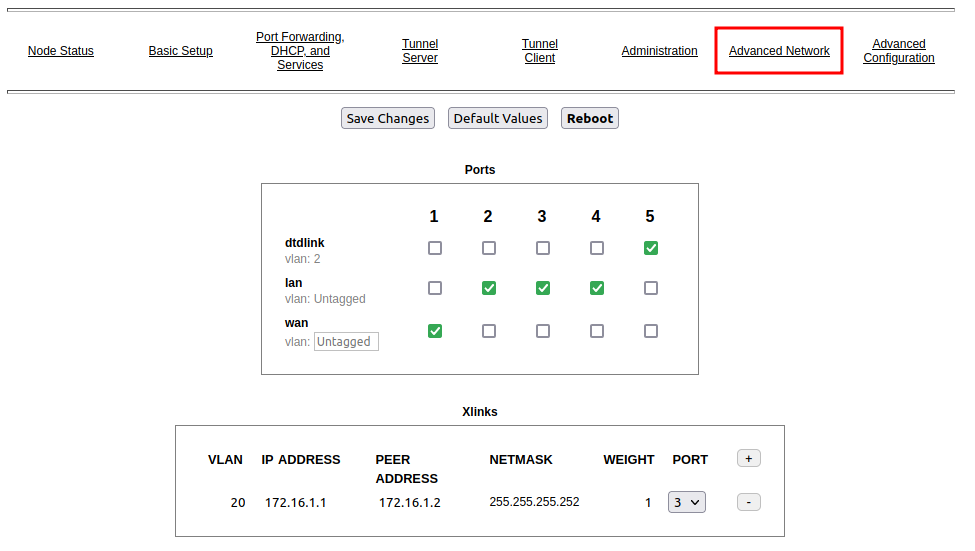
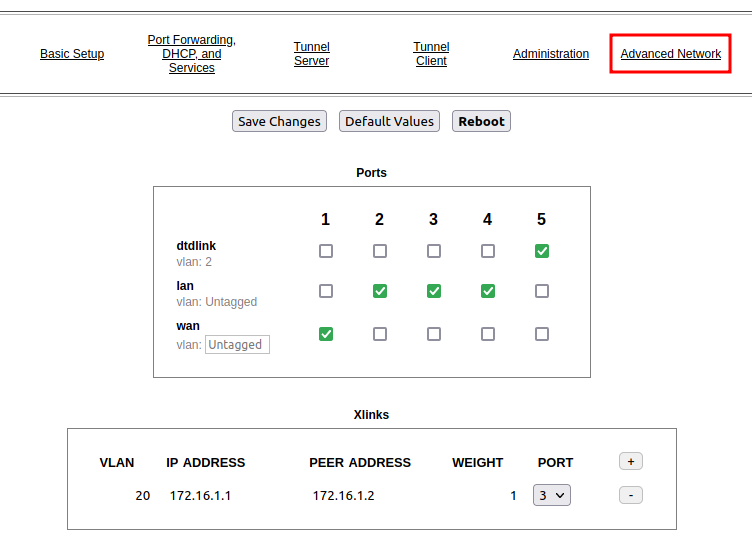
add xlinks how-to (#309)

diff --git a/arednHow-toGuides/xlinks.rst b/arednHow-toGuides/xlinks.rst
@@ -1,0 +1,30 @@
+=================
+Using Cross Links
+=================
+
+*Contributor: Tim Wilkerson KN6PLV*
+
+A cross-link allows your node to pass AREDN |trade| traffic across non-AREDN |trade| Point-to-Point (PtP) links.
+
+
+Configure the AREDN |trade| nodes at both ends
+----------------------------------------------
+
+You can use either a *Mikrotik hAP ac2* or *ac3* as the AREDN |trade| device on each end of the cross-link. Navigate to the **Administration > Advanced Network** page of the node on one side of the link. To add a cross-link click the *plus* icon, enter an unused VLAN number for the link, an IP address for the near-side radio, an IP address for the far-side radio, a weighting factor, and the available port to which the near-side radio is connected on your node. The *Weight* will be used by `OLSR <https://en.wikipedia.org/wiki/Optimized_Link_State_Routing_Protocol>`_ to determine the best route for AREDN |trade| traffic.
+
+.. image:: ../arednGettingStarted/_images/advnet.png
+  :alt: Advanced Networking
+  :align: center
+
+In this example we chose VLAN ``20`` because it is not in use anywhere else on our network. We assigned an *IP Address* of ``172.16.1.1`` for the PtP radio attached to this node, and we assigned ``172.16.1.2`` as the *Peer Address* for the PtP radio on the other side of the link. The *Weight* is set to ``1`` which is the same weight as would be used by a tunnel connection, but this can be increased if you want the cross-link to be chosen at a lower priority for routing traffic on the mesh. *Port* ``3`` was chosen because it is an open port on this device. After entering your values, click *Save Changes* to save the new cross-link information. Now you can cable your near-side PtP device to port 3 on your AREDN |trade| node.
+
+.. image:: _images/xlink.png
+  :alt: Cross-link diagram
+  :align: center
+
+Next, open the **Administration > Advanced Network** page on the node for the other side of the PtP link. Set the *IP Address* for the PtP radio attached to this node to ``172.16.1.2`` and the *Peer Address* for the PtP radio on the other side of the link to ``172.16.1.1``. The *Weight* is set to ``1`` which is the same weight as would be used by a tunnel connection, but this can be increased if you want the cross-link to be chosen at a lower priority for routing traffic on the mesh. In our example we are setting the *Port* to ``4`` because it is an open port on this device. After entering your values, click *Save Changes* to save the cross-link configuration for this side of the PtP link. Now you can cable your far-side PtP device to port 4 on your AREDN |trade| node.
+
+Configure the intermediate Point-to-Point Link
+----------------------------------------------
+
+There are many types of vendor-specific Point-to-Point products that can be used to establish an AREDN |trade| cross-link. Refer to your manufacturer's documentation for the best way to ensure that network packets can be successfully transferred between the two endpoint devices. The easiest way to accomplish this is to bridge the traffic directly between the peer devices.

diff --git a/index.rst b/index.rst
@@ -80,6 +80,7 @@ If you would like to see the documentation for a specific AREDN |trade| release,
    arednHow-toGuides/max_tunnel_settings
    arednHow-toGuides/puttygen_ssh_keys
    arednHow-toGuides/local-package-repo
+   arednHow-toGuides/xlinks
    arednHow-toGuides/devtools
 
 .. toctree::
